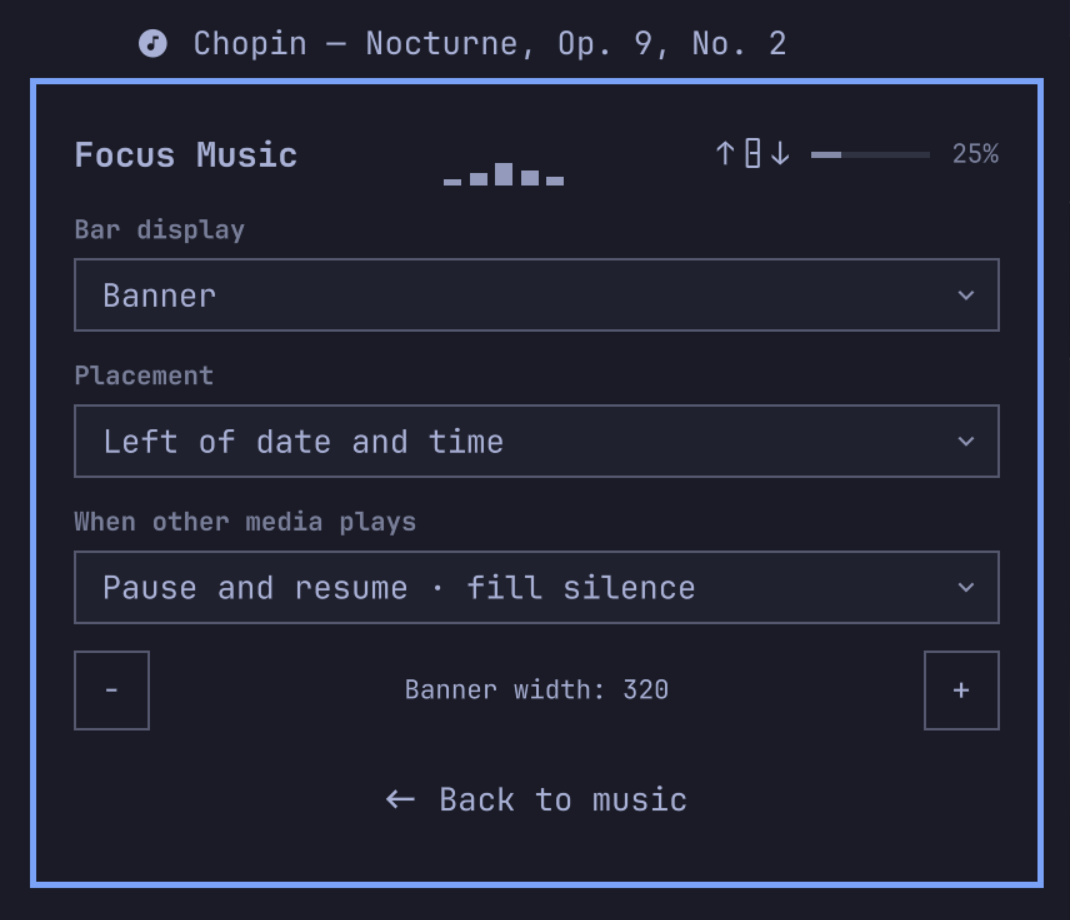
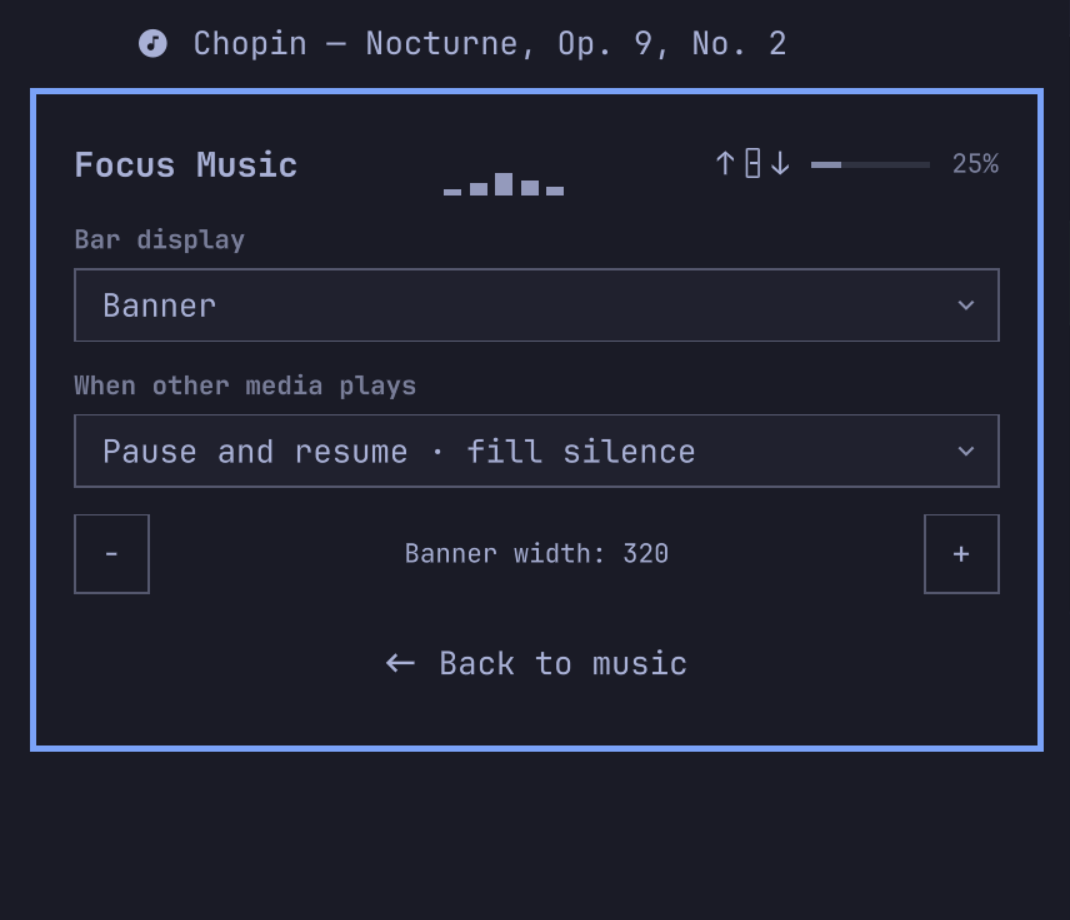
Simplify settings and restore clear mouse-button hints

diff --git a/MouseHint.qml b/MouseHint.qml
@@ -20,14 +20,38 @@ Item {
         border.color: Color.foreground
         opacity: 0.65
     }
-    Rectangle {
-        visible: button === "right"
-        x: parent.width / 2 + Style.space(1)
-        y: Style.space(3)
-        width: parent.width / 2 - Style.space(3)
-        height: Style.space(7)
-        radius: Style.space(2)
-        color: Color.foreground
+    Canvas {
+        visible: root.button === "right"
+        width: Style.space(15)
+        height: parent.height
+        readonly property color ink: Color.foreground
+        onInkChanged: requestPaint()
+        onWidthChanged: requestPaint()
+        onHeightChanged: requestPaint()
+        onPaint: {
+            var ctx = getContext("2d")
+            ctx.reset()
+            ctx.scale(width / 15, height / 21)
+            // Follow the outer mouse curve, with a straight inner edge and
+            // button seam instead of an oval resembling the wheel.
+            ctx.fillStyle = ink
+            ctx.beginPath()
+            ctx.moveTo(8.5, 1.8)
+            ctx.bezierCurveTo(11.3, 2, 13.6, 4.3, 13.6, 7.4)
+            ctx.lineTo(13.6, 10)
+            ctx.lineTo(8.5, 10)
+            ctx.closePath()
+            ctx.fill()
+            ctx.globalAlpha = 0.45
+            ctx.strokeStyle = ink
+            ctx.lineWidth = 0.6
+            ctx.beginPath()
+            ctx.moveTo(7.5, 2)
+            ctx.lineTo(7.5, 10)
+            ctx.moveTo(2, 10.5)
+            ctx.lineTo(13, 10.5)
+            ctx.stroke()
+        }
     }
     Rectangle {
         x: Style.space(6)
@@ -38,19 +62,6 @@ Item {
         color: Color.foreground
         visible: root.button !== "scroll"
         opacity: button === "middle" ? 1 : 0.35
-    }
-    // Short radial marks indicate a wheel press; arrows are reserved for scroll.
-    Repeater {
-        model: root.button === "middle" ? 3 : 0
-        Rectangle {
-            required property int index
-            x: Style.space(index === 0 ? 3 : index === 1 ? 7 : 11)
-            y: Style.space(index === 1 ? 11 : 10)
-            width: Style.space(1)
-            height: Style.space(3)
-            rotation: index === 0 ? 35 : index === 2 ? -35 : 0
-            color: Color.foreground
-        }
     }
     Rectangle {
         visible: root.button === "scroll"

diff --git a/BarWidget.qml b/BarWidget.qml
@@ -499,17 +499,7 @@ BarWidget {
                     value: root.displayMode
                     options: [{value:"banner", label:"Banner"}, {value:"visualizer", label:"Visualizer"}, {value:"icon", label:"Note"}]
                     onChanged: function(value) { root.savePreference("barDisplay", value) }
-                    onPopupOpenChanged: if (popupOpen) { placementSelect.close(); otherMediaSelect.close() }
-                }
-                GenreSelector {
-                    id: placementSelect
-                    objectName: "placementSetting"
-                    width: parent.width
-                    label: "Placement"
-                    value: root.preferences.placement
-                    options: [{value:"left", label:"Left of date and time"}, {value:"clock-right", label:"Right of date and time"}, {value:"right", label:"Right-hand icons"}]
-                    onChanged: function(value) { root.savePreference("placement", value) }
-                    onPopupOpenChanged: if (popupOpen) { displaySelect.close(); otherMediaSelect.close() }
+                    onPopupOpenChanged: if (popupOpen) otherMediaSelect.close()
                 }
                 GenreSelector {
                     id: otherMediaSelect
@@ -519,7 +509,7 @@ BarWidget {
                     value: root.preferences.otherMedia || "pause-resume"
                     options: [{value:"pause-resume", label:"Pause and resume · fill silence"}, {value:"duck-strong", label:"Lower volume greatly"}, {value:"duck-gentle", label:"Lower volume slightly"}, {value:"none", label:"No action"}]
                     onChanged: function(value) { root.savePreference("otherMedia", value) }
-                    onPopupOpenChanged: if (popupOpen) { displaySelect.close(); placementSelect.close() }
+                    onPopupOpenChanged: if (popupOpen) displaySelect.close()
                 }
                 RowLayout {
                     visible: root.displayMode === "visualizer"
@@ -559,7 +549,6 @@ BarWidget {
                 onClicked: {
                     genreSelect.close()
                     displaySelect.close()
-                    placementSelect.close()
                     otherMediaSelect.close()
                     root.settingsOpen = !root.settingsOpen
                 }

diff --git a/README.md b/README.md
@@ -176,11 +176,12 @@ Detection requires other applications to expose MPRIS playback status; silent ap
 Open the popup and choose **Settings** to change:
 
 - **Bar display:** scrolling artist/track banner, Visualizer, or compact music icon.
-- **Placement:** left of the date/time, right of the date/time, or among the right-hand icons. Choosing the right-hand icons also selects the compact icon and disables the optional bar/workspace hiding previously added by Focus Music.
 - **Width:** adjust the banner or Visualizer from 80 to 500 logical units. The wider the bar Visualizer, the more frequency bars it shows; the popup always keeps five bottom-anchored bars between the title and volume. A width of 120 gives six wider bars in the quickbar, with the same count while idle. Both respond to playback volume.
 - **When other media plays:** pause and resume to fill silence, lower volume greatly, lower volume slightly, or take no action.
 
 ![Focus Music display settings](docs/settings.png)
+
+Hold and drag the widget to reposition it using Omarchy’s bar controls. Placement has no dropdown in Focus Music.
 
 Preferences are stored outside the plugin checkout in `${XDG_CONFIG_HOME:-~/.config}/focus-music/preferences.json`. Placement changes use Omarchy's standard bar commands; optional compact-mode cleanup only edits the known user-owned clones created for Focus Music and keeps backups. Returning to a center placement restores only compact hiding that this switch previously disabled. Your music continues playing when the bar moves. Moving the widget can close its popup; hover its new location to reopen it.
 
